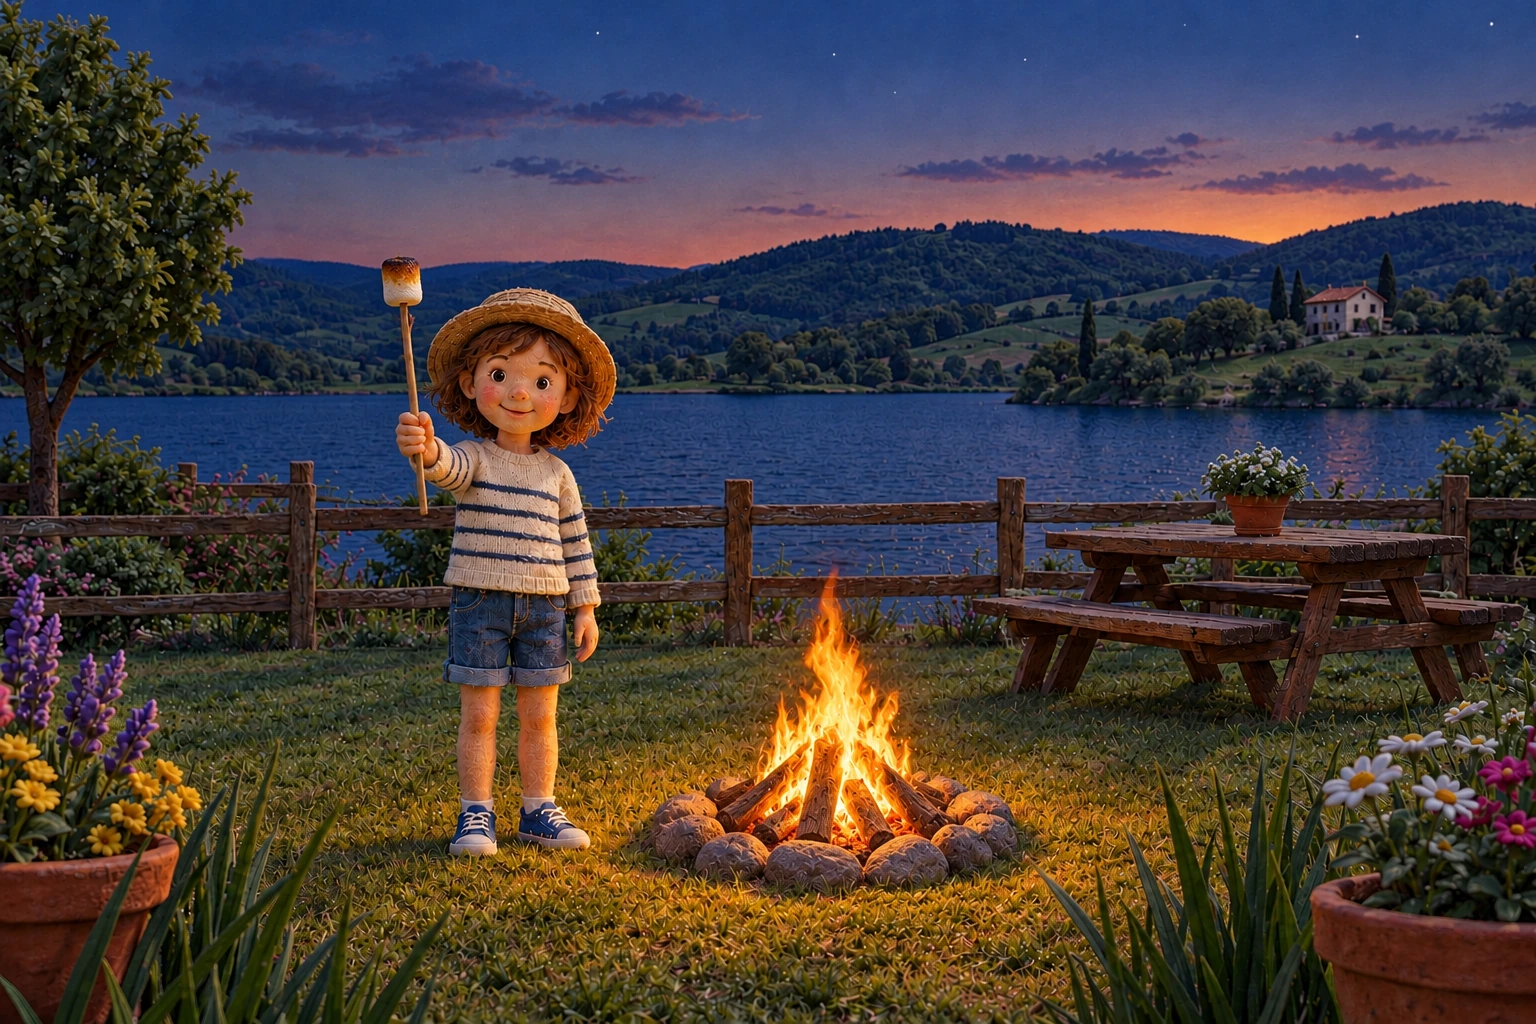
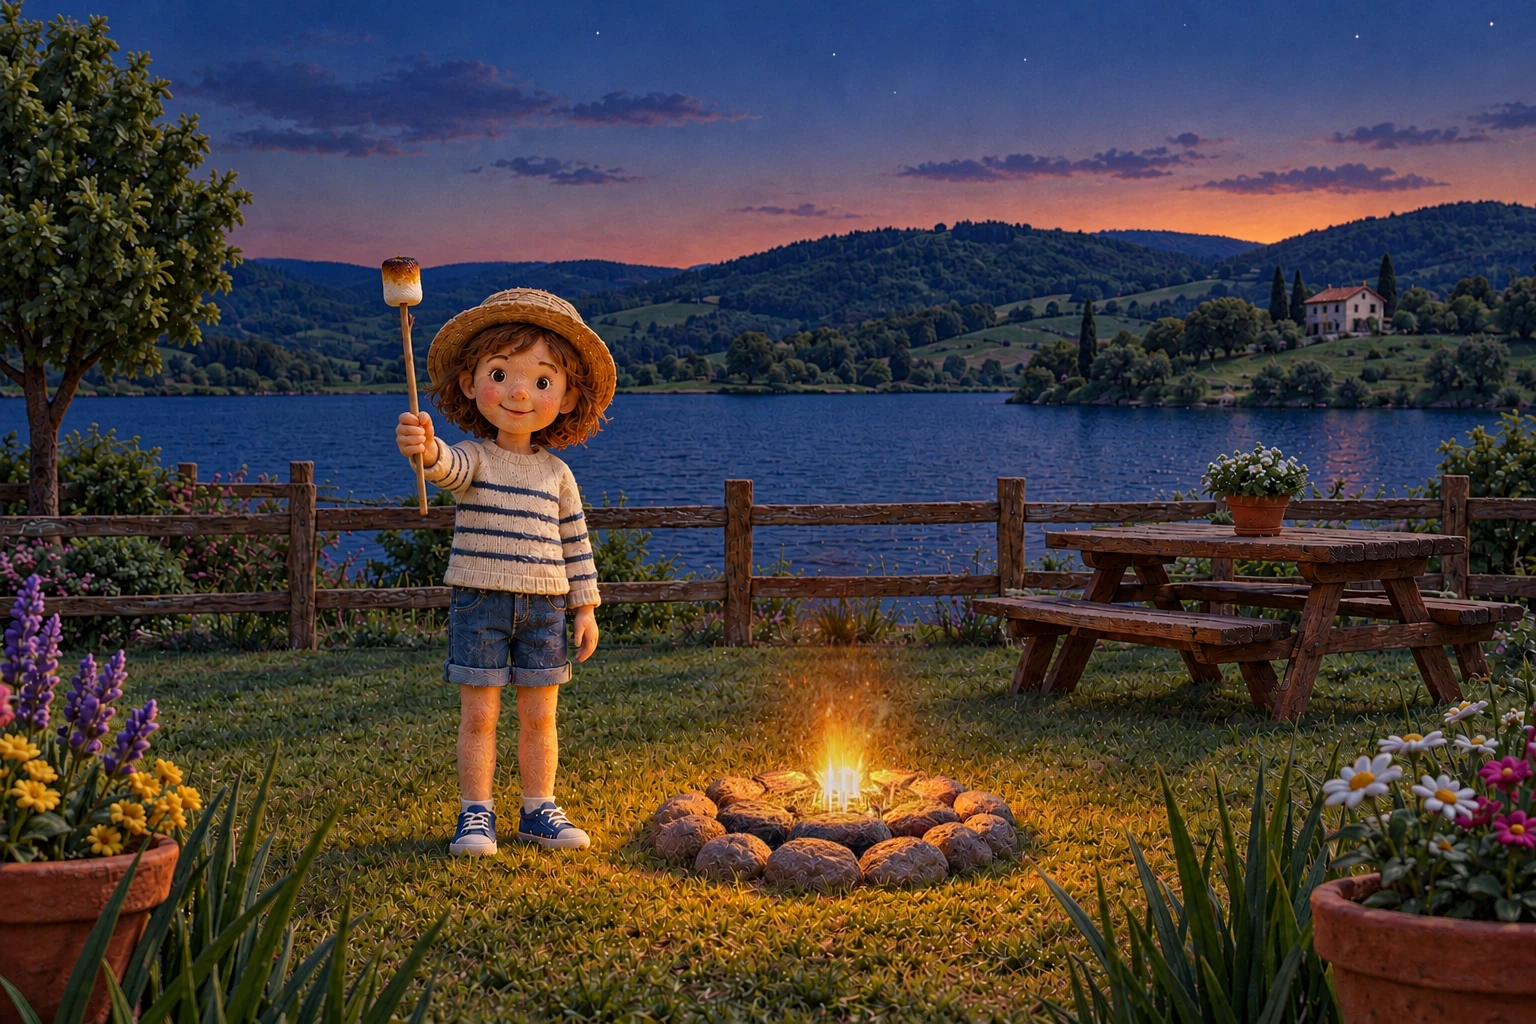
Feu de camp animé : flammes qui ondulent, voile lumineux en pose lente
- Nouvelle image du feu (sans flammes) et sa carte de profondeur
  (guimauve recalée à la profondeur de l'enfant).
- Sprite bûches + flammes : les bûches restent fixes, les flammes ondulent
  et palpitent ; en pose lente, les instants sont moyennés puis fondus.
- Flou de profondeur et exposition identiques à la scène.
- Indication sous la vitesse : flammes figées / léger flou / voile lumineux.

Claude-Session: https://claude.ai/code/session_014kpAsH4ZdMW1fcr1txRMCg

Changed region(s): [[0.4688, 0.5625, 0.625, 0.8438]]

diff --git a/src/ui.ts b/src/ui.ts
@@ -19,6 +19,7 @@ import {
 import { exposeLayer, handheldMinShutter, motionAmount, postProcess, shakeBlur, shakeLengthPx } from './effects/post';
 import { blurRadius, drawSpinner, renderDepthOfField } from './effects/dof';
 import { smoothWater } from './effects/water';
+import { FireAnimator, splitFire, type FireLayers } from './effects/fire';
 import {
   croppedDisparity,
   croppedMask,
@@ -53,6 +54,7 @@ const COPY = {
     sharpRange: (a: string, b: string) => `Net de ${a} à ${b}`, sharpToInf: (a: string) => `Net de ${a} à l’infini`,
     spinFrozen: 'Moulinet figé', spinSlight: 'Moulinet : léger filé', spinStrong: 'Moulinet : filé marqué', spinDisc: 'Moulinet : disque flou',
     waterSmooth: 'eau lissée', waterSilk: 'eau laiteuse',
+    fireFrozen: 'Flammes figées', fireSlight: 'Flammes : léger flou', fireVeil: 'Flammes : voile lumineux',
     grain: ['Grain invisible', 'Léger grain', 'Grain visible', 'Grain marqué'],
     handheld: (min: string, focal: number) => `Risque de bougé : ${min} s mini à ${focal} mm`,
     program: 'L’appareil choisit le diaphragme et la vitesse.',
@@ -72,6 +74,7 @@ const COPY = {
     sharpRange: (a: string, b: string) => `Sharp from ${a} to ${b}`, sharpToInf: (a: string) => `Sharp from ${a} to infinity`,
     spinFrozen: 'Pinwheel frozen', spinSlight: 'Pinwheel: slight blur', spinStrong: 'Pinwheel: strong blur', spinDisc: 'Pinwheel: blurred disc',
     waterSmooth: 'smoothed water', waterSilk: 'silky water',
+    fireFrozen: 'Flames frozen', fireSlight: 'Flames: slight blur', fireVeil: 'Flames: glowing veil',
     grain: ['No visible grain', 'Slight grain', 'Visible grain', 'Strong grain'],
     handheld: (min: string, focal: number) => `Camera shake risk: ${min} s min. at ${focal} mm`,
     program: 'The camera selects aperture and shutter speed.',
@@ -225,6 +228,8 @@ export class Simulator {
   private liveKey = '';
   private liveCanvas: HTMLCanvasElement | null = null;
   private spinnerReady: HTMLCanvasElement | null = null;
+  private fireReady: FireAnimator | null = null;
+  private fireSplit = new Map<string, FireLayers>();
 
   /** Invalide les caches du viseur (après un changement de réglage). */
   clearStaticCache(): void {
@@ -306,6 +311,38 @@ export class Simulator {
     return Math.abs(1 / z - this.scene().subjectDisp) < 0.02;
   }
 
+  /** Bûches et flammes séparées, une fois par scène. */
+  private fireLayers(): FireLayers | null {
+    const scene = this.scene();
+    if (!scene.fire) return null;
+    let layers = this.fireSplit.get(scene.id);
+    if (!layers) {
+      const img = photoImage(scene.fire.file);
+      if (!img) return null;
+      layers = splitFire(img);
+      this.fireSplit.set(scene.id, layers);
+    }
+    return layers;
+  }
+
+  /** Rectangle du feu dans le viseur (px), selon le cadrage. */
+  private firePose() {
+    const fire = this.scene().fire;
+    if (!fire) return null;
+    const c = this.photoFrame().crop;
+    return {
+      x: ((fire.x - c.x) / c.w) * SCENE_W,
+      y: ((fire.y - c.y) / c.h) * SCENE_H,
+      w: (fire.w / c.w) * SCENE_W,
+      h: (fire.h / c.h) * SCENE_H
+    };
+  }
+
+  /** La scène contient-elle un feu animé ? */
+  hasFire(): boolean {
+    return !!this.scene().fire;
+  }
+
   private spinnerPose(elapsed: number) {
     const sp = this.scene().spinner;
     const f = this.photoFrame();
@@ -320,7 +357,7 @@ export class Simulator {
   }
 
   /** Image simulée sans l'objet animé : profondeur de champ, exposition, couleur, grain. */
-  private renderStill(motion: number): { image: HTMLCanvasElement; spinner: HTMLCanvasElement | null } {
+  private renderStill(motion: number): { image: HTMLCanvasElement; spinner: HTMLCanvasElement | null; fire: FireAnimator | null } {
     const s = this.settings;
     const f = this.photoFrame();
     const focusDisp = this.focusDisp();
@@ -346,8 +383,28 @@ export class Simulator {
       }
       spinner = exposeLayer(src, exposure, s.temperatureK, referenceK);
     }
+    let fire: FireAnimator | null = null;
+    const layers = this.fireLayers();
+    const fp = this.firePose();
+    if (layers && fp) {
+      // Flou de profondeur au pied du feu, à l'échelle du sprite.
+      const bx = clamp(Math.round(fp.x + fp.w / 2), 0, SCENE_W - 1);
+      const by = clamp(Math.round(fp.y + fp.h * 0.9), 0, SCENE_H - 1);
+      const r = blurRadius(f.disp[by * SCENE_W + bx], focusDisp, s.aperture, s.focalLength, SCENE_W) * (layers.flame.width / Math.max(1, fp.w));
+      const prep = (layer: HTMLCanvasElement): HTMLCanvasElement => {
+        let src = layer;
+        if (r > 0.5) {
+          src = makeCanvas(layer.width, layer.height);
+          const c = src.getContext('2d')!;
+          c.filter = `blur(${(r * 0.62).toFixed(2)}px)`;
+          c.drawImage(layer, 0, 0);
+        }
+        return exposeLayer(src, exposure, s.temperatureK, referenceK);
+      };
+      fire = new FireAnimator({ logs: prep(layers.logs), flame: prep(layers.flame) });
+    }
     this.lastRenderMs = Math.round(performance.now() - t0);
-    return { image, spinner };
+    return { image, spinner, fire };
   }
 
   lastRenderMs = 0;
@@ -379,15 +436,20 @@ export class Simulator {
       const still = this.renderStill(0);
       this.liveCanvas = still.image;
       this.spinnerReady = still.spinner;
+      this.fireReady = still.fire;
       this.liveKey = key;
     }
     const pose = this.spinnerPose(elapsed);
-    if (!pose || !this.spinnerReady) return this.liveCanvas;
+    const fp = this.firePose();
+    const spin = pose && this.spinnerReady;
+    const fire = fp && this.fireReady;
+    if (!spin && !fire) return this.liveCanvas;
     const out = makeCanvas(SCENE_W, SCENE_H);
     const ctx = out.getContext('2d')!;
     ctx.drawImage(this.liveCanvas, 0, 0);
     // Le viseur montre déjà le filé que produira la vitesse choisie.
-    drawSpinner(ctx, this.spinnerReady, pose.cx, pose.cy, pose.size, pose.rotation, pose.arc);
+    if (pose && this.spinnerReady) drawSpinner(ctx, this.spinnerReady, pose.cx, pose.cy, pose.size, pose.rotation, pose.arc);
+    if (fp && this.fireReady) this.fireReady.draw(ctx, fp.x, fp.y, fp.w, fp.h, elapsed / 1000, s.shutter);
     return out;
   }
 
@@ -400,6 +462,8 @@ export class Simulator {
     ctx.drawImage(still.image, 0, 0);
     const pose = this.spinnerPose(elapsed);
     if (pose && still.spinner) drawSpinner(ctx, still.spinner, pose.cx, pose.cy, pose.size, pose.rotation, pose.arc);
+    const fp = this.firePose();
+    if (fp && still.fire) still.fire.draw(ctx, fp.x, fp.y, fp.w, fp.h, elapsed / 1000, s.shutter);
     const final = shakeBlur(out, shakeLengthPx(s.shutter, s.focalLength, s.tripod));
     this.lastShot = final;
     return final;
@@ -1183,6 +1247,7 @@ export function buildApp(root: HTMLElement, language: Language): void {
       const parts: string[] = [];
       const spin = sim.spinnerArcDeg();
       if (spin !== null) parts.push(spin < 6 ? copy.spinFrozen : spin < 45 ? copy.spinSlight : spin < 300 ? copy.spinStrong : copy.spinDisc);
+      if (sim.hasFire()) parts.push(shutter < 1 / 90 ? copy.fireFrozen : shutter < 1 / 15 ? copy.fireSlight : copy.fireVeil);
       if (shutter >= 1) parts.push(copy.waterSilk);
       else if (shutter >= 1 / 8) parts.push(copy.waterSmooth);
       if (parts.length === 0) parts.push(shutter >= 1 / 30 ? copy.motionBlur : copy.frozen);

diff --git a/src/effects/fire.ts b/src/effects/fire.ts
@@ -1,0 +1,115 @@
+/**
+ * Feu de camp animé : le sprite détouré (bûches + flammes) est séparé en deux
+ * couches. Les bûches restent fixes ; les flammes ondulent (vague qui monte,
+ * plus ample vers les pointes) et palpitent en hauteur.
+ *
+ * En pose lente, plusieurs instants de la flamme sont moyennés sur la durée
+ * de la pose : au 1/500 la flamme est figée et découpée, au 1/4 elle devient
+ * un voile lumineux lisse, comme sur une vraie photo.
+ */
+import { clamp } from '../camera/exposure';
+import { ctx2d, makeCanvas } from '../scene/objects';
+
+export interface FireLayers {
+  /** Bûches et braises (sans les flammes). */
+  logs: HTMLCanvasElement;
+  /** Flammes seules. */
+  flame: HTMLCanvasElement;
+}
+
+/** Sépare bûches et flammes d'après la couleur (jaune ou orange vif = flamme). */
+export function splitFire(src: CanvasImageSource & { width: number; height: number }): FireLayers {
+  const w = src.width;
+  const h = src.height;
+  const all = makeCanvas(w, h);
+  ctx2d(all).drawImage(src, 0, 0);
+  const data = ctx2d(all).getImageData(0, 0, w, h);
+  const logsData = new ImageData(w, h);
+  const flameData = new ImageData(w, h);
+  const d = data.data;
+  for (let i = 0; i < d.length; i += 4) {
+    const r = d[i] / 255;
+    const g = d[i + 1] / 255;
+    const fl = Math.max(clamp((g - 0.38) / 0.25, 0, 1), clamp((r - 0.68) / 0.2, 0, 1) * clamp((r - g) / 0.3, 0, 1));
+    for (let k = 0; k < 3; k++) {
+      logsData.data[i + k] = d[i + k];
+      flameData.data[i + k] = d[i + k];
+    }
+    logsData.data[i + 3] = Math.round(d[i + 3] * (1 - fl));
+    flameData.data[i + 3] = Math.round(d[i + 3] * fl);
+  }
+  const logs = makeCanvas(w, h);
+  ctx2d(logs).putImageData(logsData, 0, 0);
+  const flame = makeCanvas(w, h);
+  ctx2d(flame).putImageData(flameData, 0, 0);
+  return { logs, flame };
+}
+
+/** Une image de la flamme à l'instant t (s). */
+function flameFrame(flame: HTMLCanvasElement, out: HTMLCanvasElement, t: number): void {
+  const w = flame.width;
+  const h = flame.height;
+  const ctx = ctx2d(out);
+  ctx.clearRect(0, 0, w, h);
+  // Palpitation : la flamme s'étire et se tasse, ancrée sur les bûches.
+  const stretch = 1 + 0.07 * Math.sin(t * 6.3) + 0.04 * Math.sin(t * 10.7 + 0.8);
+  const step = 2;
+  for (let y = 0; y < h; y += step) {
+    const up = 1 - y / h; // 0 en bas, 1 en haut
+    const amp = 8.5 * Math.pow(up, 1.6) * (0.75 + 0.25 * Math.sin(t * 3.1));
+    const dx = amp * (Math.sin(y * 0.05 - t * 9) + 0.5 * Math.sin(y * 0.12 - t * 14.7 + 1.3));
+    const sy = h - (h - y) / stretch;
+    if (sy < 0) continue;
+    ctx.drawImage(flame, 0, sy, w, step / stretch, dx, y, w, step);
+  }
+}
+
+export class FireAnimator {
+  private frame: HTMLCanvasElement;
+  private acc: HTMLCanvasElement;
+
+  constructor(private layers: FireLayers) {
+    this.frame = makeCanvas(layers.flame.width, layers.flame.height);
+    this.acc = makeCanvas(layers.flame.width, layers.flame.height);
+  }
+
+  /** Nombre d'instants moyennés pour une pose donnée. */
+  static samples(shutter: number): number {
+    return shutter < 1 / 90 ? 1 : Math.round(clamp(shutter * 45, 2, 14));
+  }
+
+  /**
+   * Dessine le feu dans le rectangle (x, y, w, h) à l'instant t (s), avec le
+   * flou de mouvement des flammes correspondant à la vitesse d'obturation.
+   */
+  draw(ctx: CanvasRenderingContext2D, x: number, y: number, w: number, h: number, t: number, shutter: number): void {
+    ctx.drawImage(this.layers.logs, x, y, w, h);
+    const n = FireAnimator.samples(shutter);
+    // La flamme change de forme en ~0,3 s : au-delà, la pose la lisse déjà.
+    const span = Math.min(shutter, 0.6);
+    const acc = ctx2d(this.acc);
+    acc.clearRect(0, 0, this.acc.width, this.acc.height);
+    for (let k = 0; k < n; k++) {
+      flameFrame(this.layers.flame, this.frame, t - (span * k) / Math.max(1, n - 1));
+      // Moyenne courante : chaque instant pèse 1/n dans le résultat.
+      acc.globalAlpha = 1 / (k + 1);
+      acc.drawImage(this.frame, 0, 0);
+    }
+    acc.globalAlpha = 1;
+    ctx.save();
+    // Scintillement de la luminosité.
+    ctx.globalAlpha = n > 1 ? 1 : 0.9 + 0.1 * Math.sin(t * 13.3) * Math.sin(t * 4.1);
+    // Pose lente : les formes successives se fondent en un voile lisse
+    // (flou croissant avec la durée, à l'échelle du sprite affiché).
+    const veil = n > 1 ? clamp(Math.log2(shutter * 60), 0, 5) * 1.6 * (w / this.acc.width) : 0;
+    if (veil > 0.3) {
+      ctx.filter = `blur(${veil.toFixed(2)}px)`;
+      ctx.drawImage(this.acc, x, y, w, h);
+      ctx.filter = 'none';
+      // Le cœur de la flamme garde un peu de matière sous le voile.
+      ctx.globalAlpha = 0.45;
+    }
+    ctx.drawImage(this.acc, x, y, w, h);
+    ctx.restore();
+  }
+}

diff --git a/src/scene/photoScenes.ts b/src/scene/photoScenes.ts
@@ -34,6 +34,16 @@ export interface Spinner {
   realSpin: number;
 }
 
+/** Feu de camp détouré (bûches + flammes), animé par `effects/fire.ts`. */
+export interface Fire {
+  file: string;
+  /** Coin haut gauche et taille du sprite (fractions de l'image). */
+  x: number;
+  y: number;
+  w: number;
+  h: number;
+}
+
 export interface PhotoScene {
   id: string;
   /** Image nette partout (l'objet animé en est retiré s'il y en a un). */
@@ -48,6 +58,7 @@ export interface PhotoScene {
   subjectX: number;
   subjectY: number;
   spinner?: Spinner;
+  fire?: Fire;
   /** Température de couleur d'origine (K) : réglage proposé avec cette lumière. */
   nativeK: number;
   /** Niveaux de lumière (1 .. 9) qui utilisent cette scène. */
@@ -74,6 +85,7 @@ export const PHOTO_SCENES: PhotoScene[] = [
     subjectDisp: 0.21,
     subjectX: 0.33,
     subjectY: 0.56,
+    fire: { file: `${PHOTO_BASE}/feu-flammes.webp`, x: 703 / 1536, y: 560 / 1024, w: 262 / 1536, h: 315 / 1024 },
     nativeK: 2000,
     levels: [2, 3]
   },
@@ -164,7 +176,7 @@ function load(src: string): Promise<void> {
 }
 
 export function loadPhotoScenes(): Promise<void> {
-  const files = PHOTO_SCENES.flatMap((s) => [s.image, s.depth, ...(s.water ? [s.water] : []), ...(s.spinner ? [s.spinner.file] : [])]);
+  const files = PHOTO_SCENES.flatMap((s) => [s.image, s.depth, ...(s.water ? [s.water] : []), ...(s.spinner ? [s.spinner.file] : []), ...(s.fire ? [s.fire.file] : [])]);
   return Promise.all(files.map(load)).then(() => undefined);
 }
 

diff --git a/README.md b/README.md
@@ -21,7 +21,7 @@ L'objectif n'est pas de reproduire l'interface d'un appareil existant, mais de p
 - La mise au point par clic directement dans le viseur
 - La focale, la distance et leur influence sur le cadrage
 - Le filé du sujet, le bougé à main levée et l'effet stabilisateur du trépied
-- L'eau qui devient laiteuse en pose lente
+- L'eau qui devient laiteuse et les flammes du feu de camp qui se fondent en voile en pose lente
 - Le grain, la balance des blancs et cinq ambiances lumineuses, de la pleine lune au plein soleil
 - L'alerte de hautes lumières : les zones brûlées clignotent dans le viseur et sur les photos
 - La grille des tiers pour composer l'image
@@ -35,7 +35,6 @@ Chaque ambiance repose sur une photo, sa carte de profondeur (qui pilote le flou
 
 - [ ] Compensation d'exposition (±3 IL) en modes P, Av et Tv
 - [ ] Défis : reproduire une photo cible avec les bons réglages
-- [ ] Flammes animées pour la scène du feu de camp
 
 ---
 
@@ -55,7 +54,7 @@ The goal is not to replicate a specific camera interface, but to offer a clear, 
 - Click-to-focus directly in the viewfinder
 - Focal length, distance, and their effect on framing
 - Subject motion blur, handheld camera shake, and tripod stabilisation
-- Water turning silky with long exposures
+- Water turning silky and campfire flames melting into a glowing veil with long exposures
 - Grain, white balance, and five lighting moods, from full moon to full sun
 - Highlight alert: blown-out areas blink in the viewfinder and on your photos
 - A rule-of-thirds grid for composition
@@ -69,7 +68,6 @@ Each lighting mood is built from a photo, its depth map (which drives the blur),
 
 - [ ] Exposure compensation (±3 EV) in P, Av, and Tv modes
 - [ ] Challenges: match a target photo with the right settings
-- [ ] Animated flames for the campfire scene
 
 ---
 
